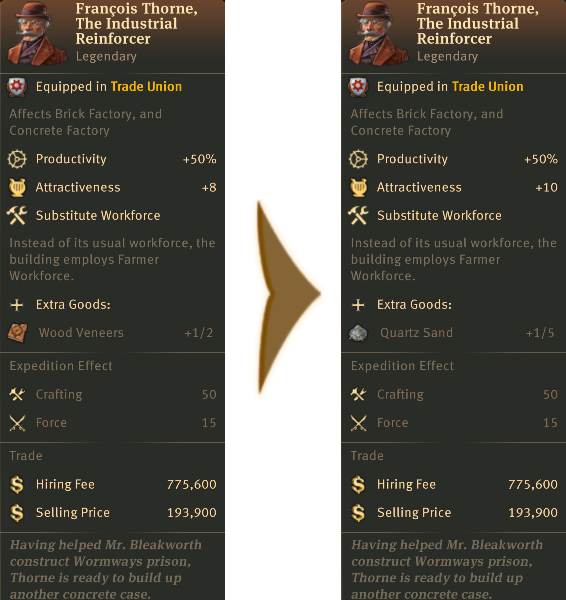
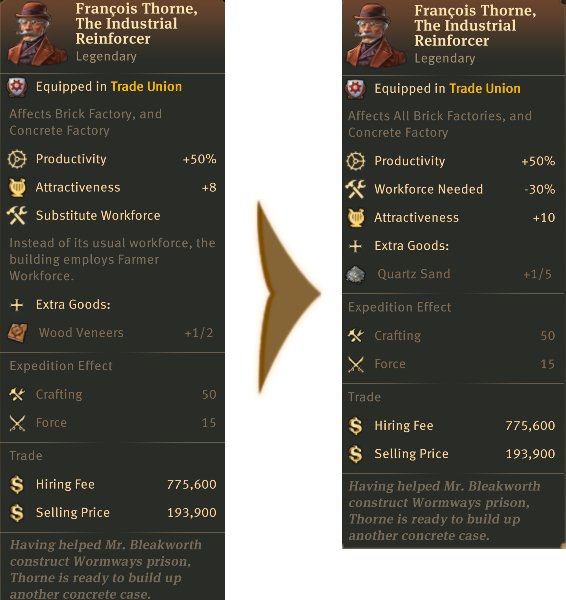
1

diff --git a/item_overhaul.md b/item_overhaul.md
@@ -60,8 +60,36 @@
   - <details><!-- Francois Strindberg, Crown Jeweller -->
     <summary><img src="./doc/job_adertisements/luxus/icon_well_dressed_106.png" width="20" width="20" /> Francois Strindberg, Crown Jeweller</summary>
       <img src="./doc/item_overhaul/trade_union/strindberg.png" />
+      <img src="./doc/item_overhaul/trade_union/brigthwoman.png" />
       <img src="./doc/item_overhaul/trade_union/gilbert.png" />
       <img src="./doc/item_overhaul/trade_union/gemologist.png" />
+    </details>
+
+  - <details><!-- Francois Thorne, The Industrial Reinforcer  -->
+    <summary><img src="./doc/job_adertisements/material/icon_well_dressed_103.png" width="20" width="20" /> Francois Thorne, The Industrial Reinforcer </summary>
+      <img src="./doc/item_overhaul/trade_union/thorne.png" />
+      <img src="./doc/item_overhaul/trade_union/general.png" />
+    </details>
+
+  - <details><!-- Gennaro Garibaldi, Chocolatier by Royal Appointment  -->
+    <summary><img src="./doc/job_adertisements/food/icon_baker_102.png" width="20" width="20" /> Gennaro Garibaldi, Chocolatier by Royal Appointment </summary>
+      <img src="./doc/item_overhaul/trade_union/gennaro.png" />
+      <img src="./doc/item_overhaul/trade_union/charlotte.png" />
+      <img src="./doc/item_overhaul/trade_union/chocolatier.png" />
+    </details>
+
+  - <details><!-- Fried Plantain Kitchen Items  -->
+    <summary><img src="./doc/item_overhaul/trade_union/icon_fried_bananas.png" width="20" width="20" /> Fried Plantain Kitchen Items </summary>
+      <img src="./doc/item_overhaul/trade_union/icnoyotl.png" />
+      <img src="./doc/item_overhaul/trade_union/kantyi.png" />
+      <img src="./doc/item_overhaul/trade_union/confectionier.png" />
+    </details>
+
+  - <details><!-- Gerhard Fuchs, of the Patent Eyeglass  -->
+    <summary><img src="./doc/job_adertisements/consumer/icon_well_dressed_206.png" width="20" width="20" /> Gerhard Fuchs, of the Patent Eyeglass </summary>
+      <img src="./doc/item_overhaul/trade_union/gerhard.png" />
+      <img src="./doc/item_overhaul/trade_union/otto.png" />
+      <img src="./doc/item_overhaul/trade_union/horologist.png" />
     </details>
 
   </details>
